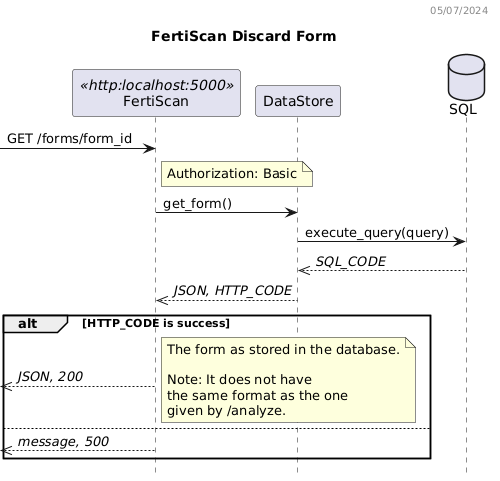
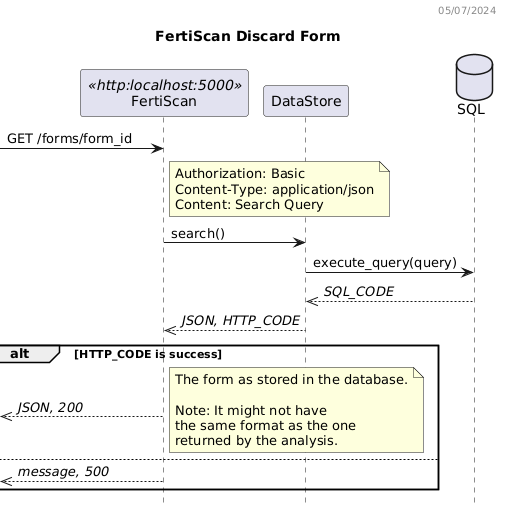
doc: update diagrams

diff --git a/app.py b/app.py
@@ -128,7 +128,7 @@ def discard_form(form_id):
 @app.route('/forms', methods=['GET'])
 @auth.login_required
 @swag_from('docs/swagger/get_form.yaml')
-def get_form(form_id):
+def search():
     # Get JSON search prompt from the request
     query = request.json
     if query is None:
